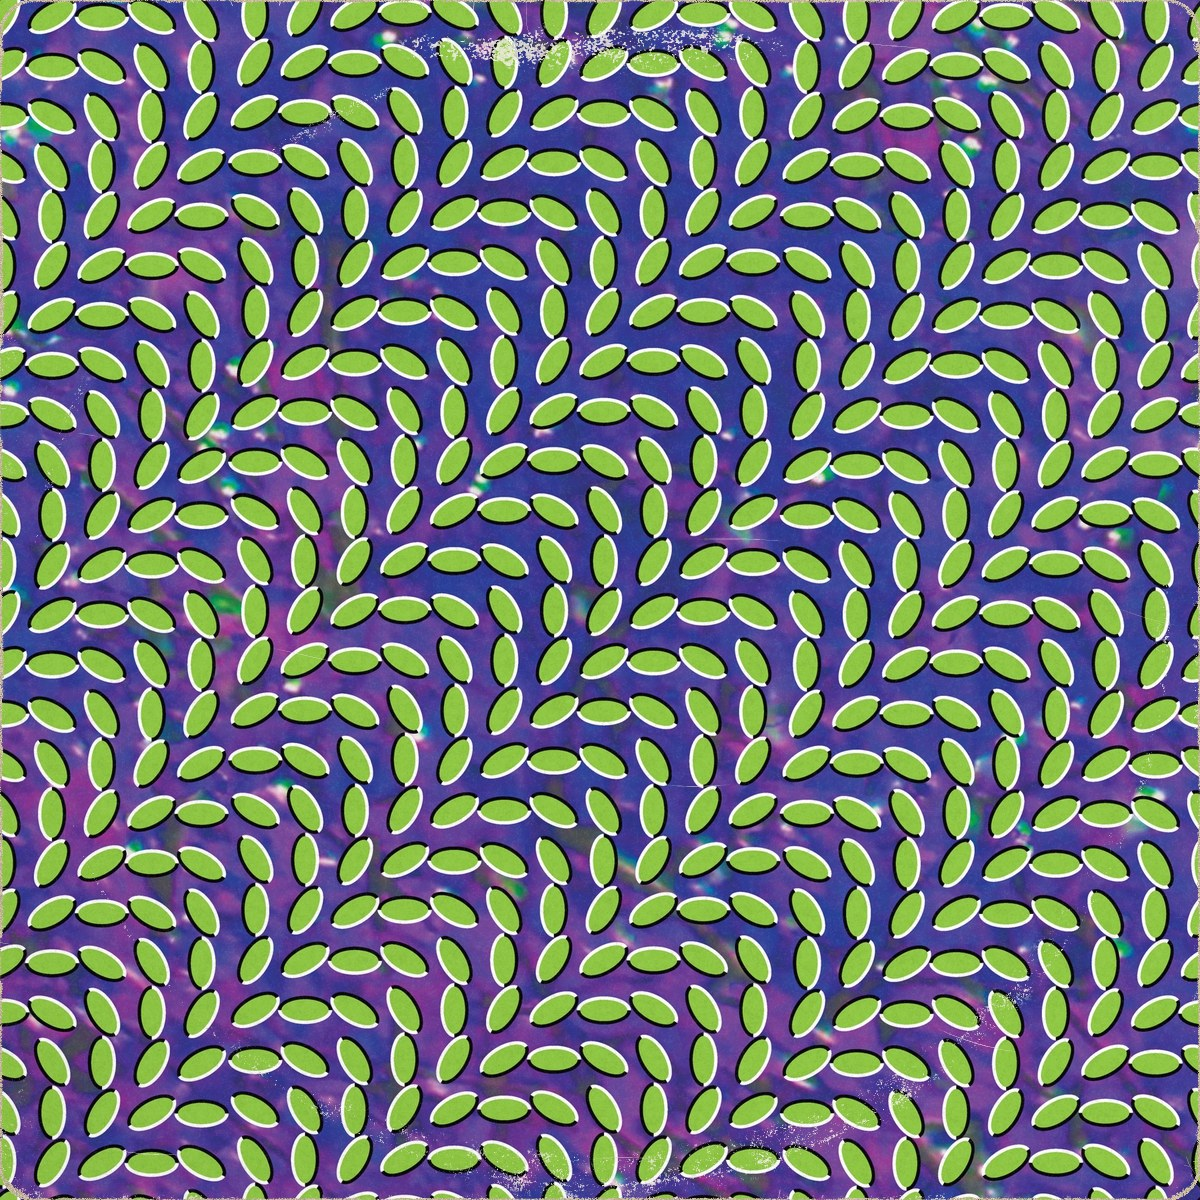
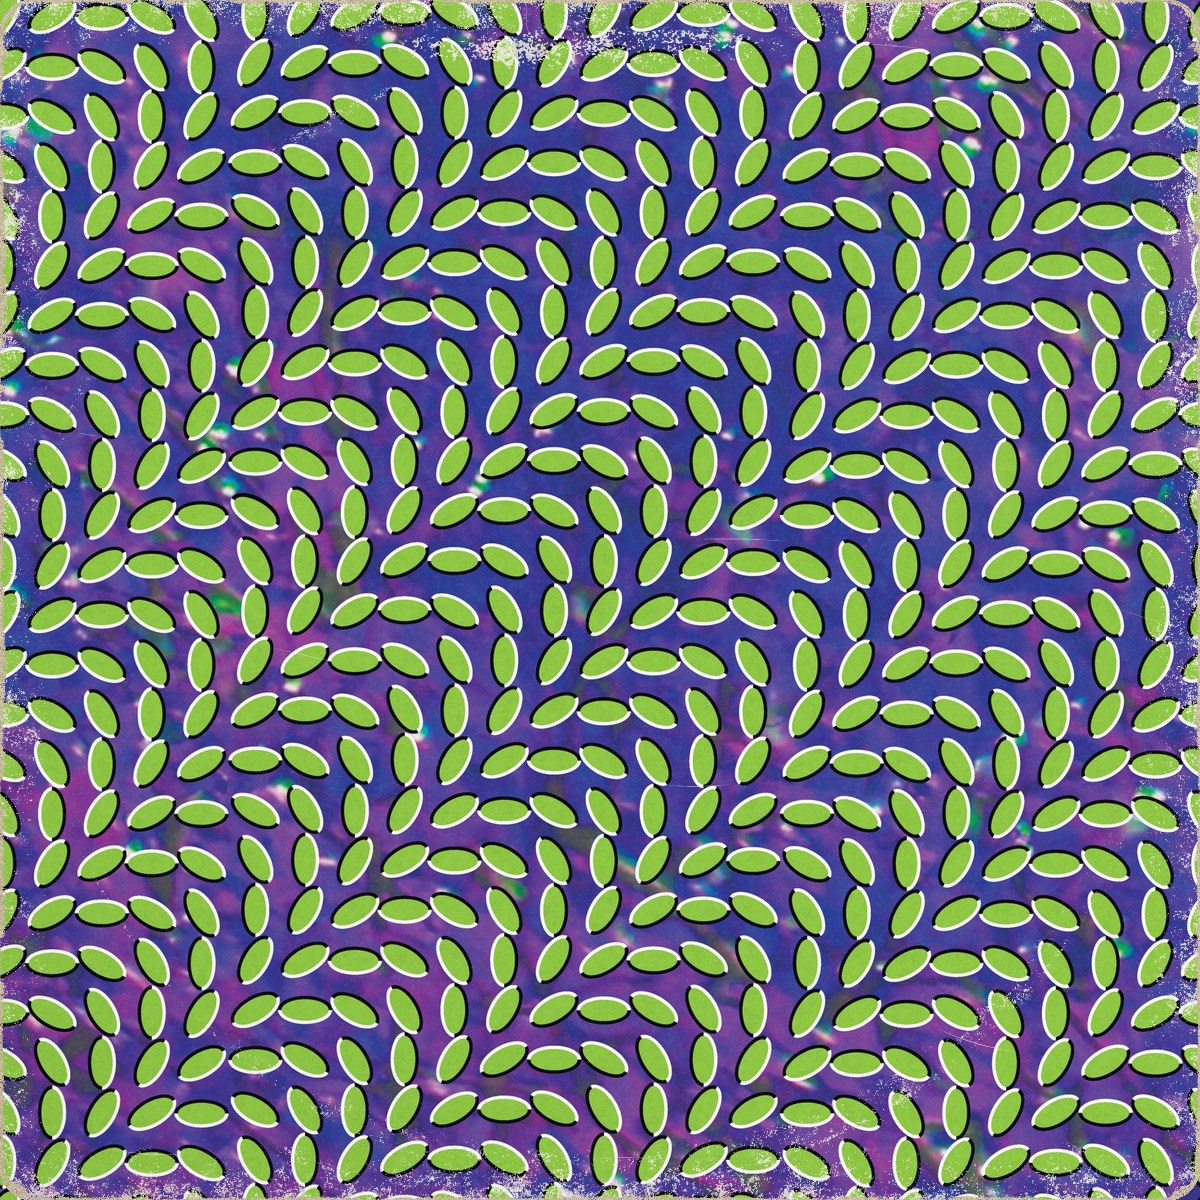
40: per-record edge wear (wear.edge); Merriweather gets heavy edges
wear.edge scales a record's edge wear without moving any of it: stronger,
wider shelf frost, a somewhat wider crushed strip and corners, and above 1
a broad patchy rub along every edge, heaviest near the corners. For busy
art that hides wear in the middle. Merriweather Post Pavilion is set to 4.

Claude-Session: https://claude.ai/code/session_01PbqXtG5SizYecEWh39Pkkj

diff --git a/scripts/make-wear.py b/scripts/make-wear.py
@@ -414,10 +414,10 @@ def ring_layer(slug, year):
     return lay
 
 
-def surface_layer(slug, year, face='', mean=.5):
+def surface_layer(slug, year, face='', mean=.5, edgew=1.0):
     """What happened to one face: its cut edges and corners, shelf scuffs, the hand that held it,
     cracks, scratches and grit. The front and the back ('' / ':back') each have their own."""
-    key = (slug, year, face, round(mean, 3))
+    key = (slug, year, face, round(mean, 3), edgew)
     if key in _SURF:
         return _SURF[key]
     R = ring_layer(slug, year)
@@ -464,7 +464,18 @@ def surface_layer(slug, year, face='', mean=.5):
         profs.append(prof)
         amp = U(.08, .3) * life * (shelf if s == 0 else 1) * (1.3 if s == 1 else 1) * (1.3 if light_old and s == opening else 1)
         e = S * U(.002, .0045)
+        amp, e = min(.95, amp * edgew), e * (1 + 1.1 * (edgew - 1))   # per-record edge wear (wear.edge): stronger, wider frost
         Pi = np.maximum(Pi, amp * np.exp(-np.maximum(dist[s], 0) / e) * (.25 + .75 * noise1(rng, S, S * .06))[alongidx[s]])
+    if edgew > 1:                                    # wear.edge: a broad, patchy rub along every edge, heaviest near the
+        er = seed(slug + (face or ':face') + ':edgewide')   # corners, for art that hides wear in the middle
+        k = min(1.0, (edgew - 1) / 3)
+        for s in range(4):
+            t = np.arange(S, dtype=np.float32)
+            wide = S * er.uniform(.012, .028) * (.6 + .4 * k)
+            patch = smooth(.25, .7, noise1(er, S, S * .04, 3)) * (.55 + .45 * noise1(er, S, S * .012, 2))
+            patch *= 1 + .8 * (np.exp(-t / (S * .06)) + np.exp(-(S - 1 - t) / (S * .06)))     # corners take more
+            amp = er.uniform(.35, .6) * k * (1.25 if s == 1 else 1)
+            Pi = np.maximum(Pi, np.clip(amp * patch[alongidx[s]], 0, .95) * np.exp(-(np.maximum(dist[s], 0) / wide) ** 1.3))
     if light_old:                                    # a faint soiled band along the opening, where hands go in
         along = smooth(.3, .7, noise1(rng, S, S * .06))
         esoil = np.exp(-np.maximum(dist[opening], 0) / (S * U(.006, .012))) * along[alongidx[opening]] * U(.3, .45) * 1.3
@@ -593,14 +604,15 @@ def surface_layer(slug, year, face='', mean=.5):
     return lay
 
 
-def make_mask(slug, year, dens=1.0, edgek=1.0, face='', mean=.5):
+def make_mask(slug, year, dens=1.0, edgek=1.0, face='', mean=.5, edgew=1.0):
     """dens and edgek scale the amount of wear without moving any of it, so every level is the same sleeve.
     face '' is the front, ':back' the back (the ring mirrored, everything else its own). mean is the
     cover's mean luminance (pale stock is handled differently).
     Returns channels: 0 abrasion (exposed paper), 1 crushed edge (card), 2 dirt (shows on light ink),
     3 the rim's impression line, 4 the rim's stipple, 5 grey grain in rubbed white stock."""
     R = ring_layer(slug, year)
-    L = surface_layer(slug, year, face, mean)
+    L = surface_layer(slug, year, face, mean, edgew)
+    edgek = edgek * (1 + .3 * (edgew - 1))          # and a somewhat wider crushed strip and corners
     fl = (lambda a: a[:, ::-1]) if face else (lambda a: a)      # the disc presses both faces, mirrored
     T, Trub, V, Vb, Tc = fl(R['T']), fl(R['Trub']), fl(R['V']), fl(R['Vb']), fl(R['Tc'])
     Pi = np.maximum(fl(R['Pi']), L['Pi'])
@@ -725,13 +737,14 @@ def job(a):
     slug = a['slug']
     level = (a.get('wear') or {}).get('level', 'med')
     level = level if level in LEVELS else 'med'
+    edgew = float((a.get('wear') or {}).get('edge', 1.0))   # per-record: more edge wear where the art hides the rest
     cov = load_square(ROOT / a['art'])
     lum = float(lum_of(cov).mean())
     tone = 1 + .3 * float(smooth(.6, .85, lum))           # light covers carry heavier wear
     masks = {}
     for lv in (LEVELS if LEVELS_DIR else [level]):
         dens, ek, _ = LEVELS[lv]
-        masks[lv] = make_mask(slug, a.get('year'), dens * tone, ek, '', lum)
+        masks[lv] = make_mask(slug, a.get('year'), dens * tone, ek, '', lum, edgew)
     mask, life, age, ring = masks[level]; k = LEVELS[level][2]
     MASKS.mkdir(parents=True, exist_ok=True)
     Image.fromarray((mask[..., :3] * 255 + .5).astype(np.uint8), 'RGB').save(MASKS / f'{slug}.png')
@@ -741,7 +754,7 @@ def job(a):
         covb = load_square(ROOT / a['art_back'], pad=True)
         lumb = float(lum_of(covb).mean())
         dens, ek, _ = LEVELS[level]
-        mb = make_mask(slug, a.get('year'), dens * (1 + .3 * float(smooth(.6, .85, lumb))), ek, ':back', lumb)[0]
+        mb = make_mask(slug, a.get('year'), dens * (1 + .3 * float(smooth(.6, .85, lumb))), ek, ':back', lumb, edgew)[0]
         bake(covb, mb, k, slug + ':back', age).save(WORN / f'{slug}-back.jpg', 'JPEG', quality=86, optimize=True, progressive=True)
         back = f'assets/40/worn/{slug}-back.jpg'
     if LEVELS_DIR:
@@ -773,5 +786,5 @@ if __name__ == '__main__':
         if a['slug'] in backs:
             a['art_worn'] = f"assets/40/worn/{a['slug']}.jpg"
             if backs[a['slug']]: a['art_back_worn'] = backs[a['slug']]
-            a['wear'] = {'level': (a.get('wear') or {}).get('level', 'med')}
+            a['wear'] = {**(a.get('wear') or {}), 'level': (a.get('wear') or {}).get('level', 'med')}
     data_path.write_text(json.dumps(doc, indent=2, ensure_ascii=False) + '\n')
